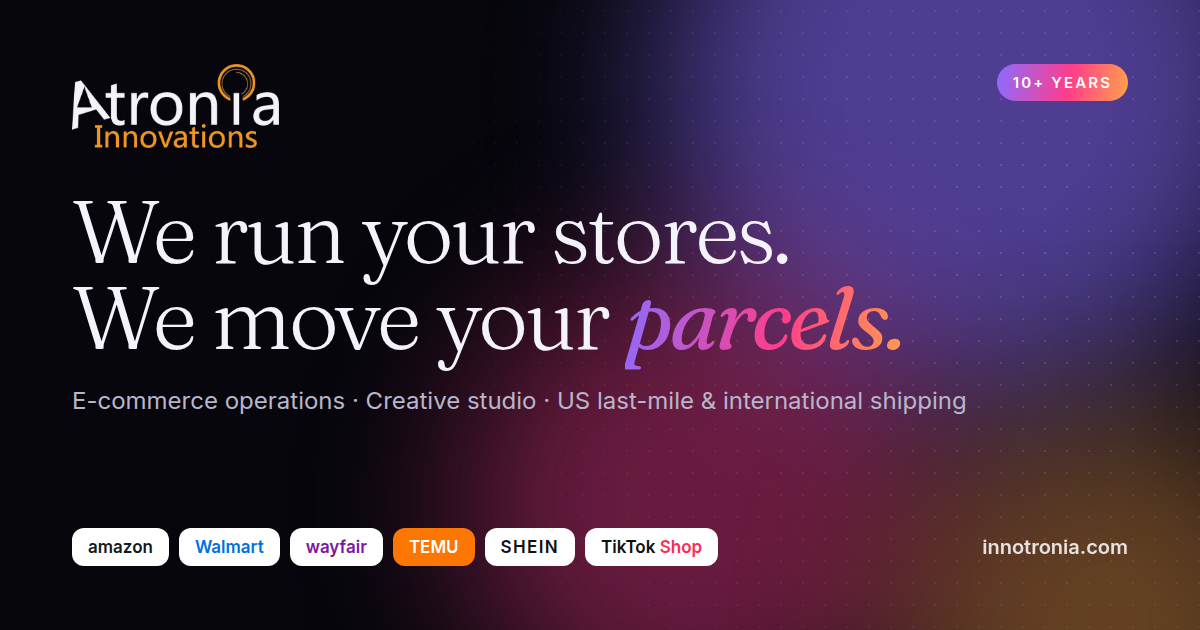
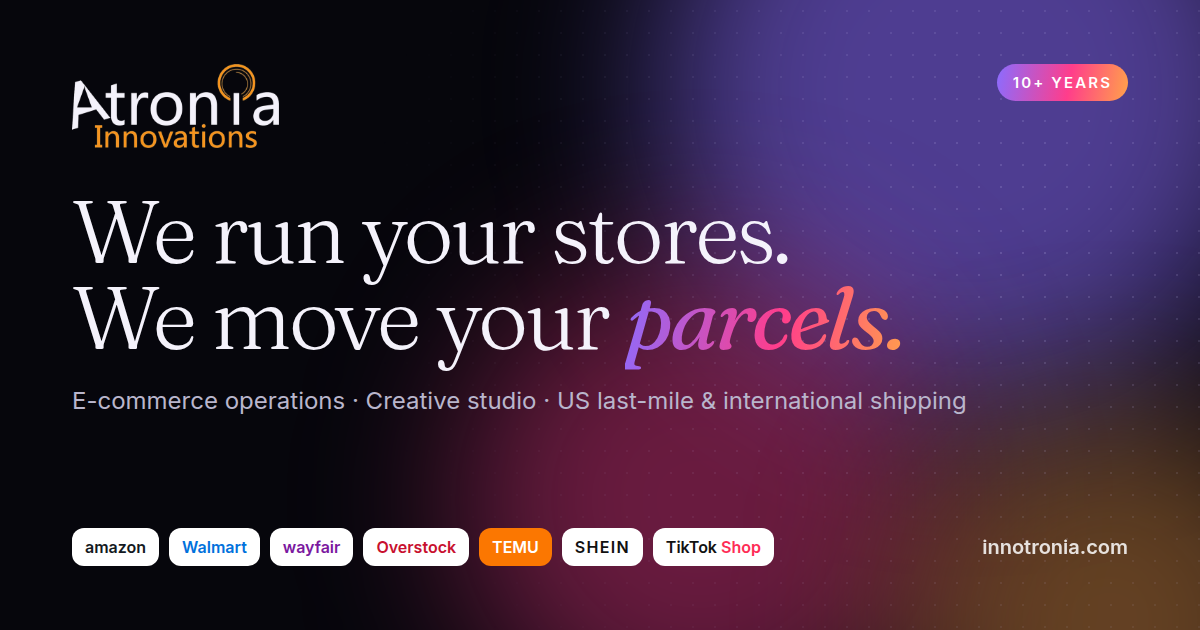
Rename site to Atronia Innovations and add Overstock
- All visible brand text, page titles, social tags, privacy policy, 404,
  auto-reply emails and structured data now use Atronia Innovations
  (legal name Atronia Innovations Inc.); domain unchanged
- Overstock added to the platform wall (4x2 grid), service tags, contact
  form platforms, descriptions and trademark notice; marketplaces count 7+
- Share image regenerated

Claude-Session: https://claude.ai/code/session_01MSoyoZq11KT8D2fmmKe6iS

Changed region(s): [[0.0617, 0.8143, 0.6475, 0.9048]]

diff --git a/index.html b/index.html
@@ -3,8 +3,8 @@
 <head>
   <meta charset="UTF-8" />
   <meta name="viewport" content="width=device-width, initial-scale=1.0" />
-  <title>Innotronia — E-commerce Growth &amp; Logistics</title>
-  <meta name="description" content="Innotronia is a full-service e-commerce agency and logistics partner. We run your Amazon, Walmart, Wayfair, Temu, Shein and TikTok Shop channels end-to-end, open new sales channels, create listing images, A+ content and video, and ship with US last-mile and international parcel services." />
+  <title>Atronia Innovations — E-commerce Growth &amp; Logistics</title>
+  <meta name="description" content="Atronia Innovations is a full-service e-commerce agency and logistics partner. We run your Amazon, Walmart, Wayfair, Overstock, Temu, SHEIN and TikTok Shop channels end-to-end, open new sales channels, create listing images, A+ content and video, and ship with US last-mile and international parcel services." />
   <meta name="theme-color" content="#06060c" />
   <link rel="canonical" href="https://innotronia.com/" />
   <link rel="alternate" hreflang="en" href="https://innotronia.com/" />
@@ -13,18 +13,18 @@
 
   <!-- Social sharing -->
   <meta property="og:type" content="website" />
-  <meta property="og:site_name" content="Innotronia" />
+  <meta property="og:site_name" content="Atronia Innovations" />
   <meta property="og:url" content="https://innotronia.com/" />
-  <meta property="og:title" content="Innotronia — E-commerce Growth & Logistics" />
-  <meta property="og:description" content="10+ years running Amazon, Walmart, Wayfair, Temu, SHEIN & TikTok Shop stores. Channel takeover, new-channel expansion, creative studio, US last-mile & international shipping." />
+  <meta property="og:title" content="Atronia Innovations — E-commerce Growth & Logistics" />
+  <meta property="og:description" content="10+ years running Amazon, Walmart, Wayfair, Overstock, Temu, SHEIN & TikTok Shop stores. Channel takeover, new-channel expansion, creative studio, US last-mile & international shipping." />
   <meta property="og:image" content="https://innotronia.com/assets/img/og-image.png" />
   <meta property="og:image:width" content="1200" />
   <meta property="og:image:height" content="630" />
-  <meta property="og:image:alt" content="Innotronia — We run your stores. We move your parcels." />
+  <meta property="og:image:alt" content="Atronia Innovations — We run your stores. We move your parcels." />
   <meta property="og:locale" content="en_US" />
   <meta property="og:locale:alternate" content="zh_CN" />
   <meta name="twitter:card" content="summary_large_image" />
-  <meta name="twitter:title" content="Innotronia — E-commerce Growth & Logistics" />
+  <meta name="twitter:title" content="Atronia Innovations — E-commerce Growth & Logistics" />
   <meta name="twitter:description" content="Channel takeover, new-channel expansion, creative studio, US last-mile & international shipping." />
   <meta name="twitter:image" content="https://innotronia.com/assets/img/og-image.png" />
 
@@ -37,8 +37,9 @@
     "@context": "https://schema.org",
     "@type": "ProfessionalService",
     "@id": "https://innotronia.com/#organization",
-    "name": "Innotronia",
-    "alternateName": "Atronia Innovations",
+    "name": "Atronia Innovations",
+    "legalName": "Atronia Innovations Inc.",
+    "alternateName": "Innotronia",
     "url": "https://innotronia.com/",
     "logo": "https://innotronia.com/assets/img/logo.png",
     "image": "https://innotronia.com/assets/img/og-image.png",
@@ -49,7 +50,7 @@
       "@type": "OfferCatalog",
       "name": "Services",
       "itemListElement": [
-        { "@type": "Offer", "itemOffered": { "@type": "Service", "name": "Channel Takeover", "description": "A–Z marketplace operations for Amazon, Walmart, Wayfair, Temu, SHEIN and TikTok Shop." }, "priceSpecification": { "@type": "UnitPriceSpecification", "price": 999, "priceCurrency": "USD", "unitText": "MONTH" } },
+        { "@type": "Offer", "itemOffered": { "@type": "Service", "name": "Channel Takeover", "description": "A–Z marketplace operations for Amazon, Walmart, Wayfair, Overstock, Temu, SHEIN and TikTok Shop." }, "priceSpecification": { "@type": "UnitPriceSpecification", "price": 999, "priceCurrency": "USD", "unitText": "MONTH" } },
         { "@type": "Offer", "itemOffered": { "@type": "Service", "name": "Channel Expansion", "description": "Open and grow new sales channels for 5% of net revenue." } },
         { "@type": "Offer", "itemOffered": { "@type": "Service", "name": "Creative Studio", "description": "Main images, A+ content, Brand Store design and AI-generated product videos." }, "priceSpecification": { "@type": "UnitPriceSpecification", "price": 699, "priceCurrency": "USD", "unitText": "MONTH" } },
         { "@type": "Offer", "itemOffered": { "@type": "Service", "name": "US Last-Mile Delivery" } },
@@ -79,7 +80,7 @@
   <!-- ============ NAV ============ -->
   <header class="nav" id="nav">
     <div class="container nav__inner">
-      <a href="#top" class="logo" aria-label="Innotronia home">
+      <a href="#top" class="logo" aria-label="Atronia Innovations home">
         <img class="logo__img" src="assets/img/logo-light.png" alt="Atronia Innovations" width="109" height="44" />
       </a>
 
@@ -154,14 +155,14 @@
       <div class="container hero__content">
         <p class="eyebrow reveal"><span class="dot"></span><span data-i18n="hero.eyebrow">E-commerce Agency · Logistics Partner</span></p>
         <h1 class="hero__title reveal" data-i18n-html="hero.title">We run your stores.<br/>We move your <em>parcels.</em></h1>
-        <p class="hero__lead reveal" data-i18n="hero.lead">Innotronia takes over marketplace operations from A to Z, opens new sales channels, and ships your orders across the US and around the world — so your brand can focus on building great products.</p>
+        <p class="hero__lead reveal" data-i18n="hero.lead">Atronia Innovations takes over marketplace operations from A to Z, opens new sales channels, and ships your orders across the US and around the world — so your brand can focus on building great products.</p>
         <div class="hero__ctas reveal">
           <a href="#pricing" class="btn btn--grad magnetic" data-i18n="hero.cta1">Explore plans</a>
           <a href="#contact" class="btn btn--ghost magnetic" data-tab-target="shipping" data-i18n="hero.cta2">Get a shipping quote</a>
         </div>
         <dl class="hero__stats reveal">
           <div><dt><span class="count" data-to="10">0</span>+</dt><dd data-i18n="hero.s0">Years of experience</dd></div>
-          <div><dt><span class="count" data-to="6">0</span>+</dt><dd data-i18n="hero.s1">Marketplaces operated</dd></div>
+          <div><dt><span class="count" data-to="7">0</span>+</dt><dd data-i18n="hero.s1">Marketplaces operated</dd></div>
           <div><dt>A–Z</dt><dd data-i18n="hero.s2">Full-service operations</dd></div>
           <div><dt><span class="count" data-to="7">0</span>+</dt><dd data-i18n="hero.s4">Brand partners</dd></div>
         </dl>
@@ -184,6 +185,10 @@
           <div class="plogo reveal" title="Wayfair">
             <svg class="plogo__icon" viewBox="0 0 48 48" aria-hidden="true"><path fill="#7b189f" stroke="#7b189f" stroke-linejoin="round" d="M39.59 38.252c.179-.57.379-1.291.596-2.133c.357-1.386.75-3.111 1.125-4.768a2 2 0 0 0-.538-1.855l-4.082-4.082L25.414 36.69l4.082 4.082a2 2 0 0 0 1.856.537c1.657-.375 3.381-.768 4.768-1.125a44 44 0 0 0 2.132-.596a2.03 2.03 0 0 0 1.338-1.338m-27.71 1.936c1.387.357 3.112.75 4.769 1.125a2 2 0 0 0 1.855-.537l4.082-4.082l-11.277-11.277l-4.082 4.082a2 2 0 0 0-.537 1.855c.375 1.657.768 3.381 1.125 4.768c.217.842.417 1.564.596 2.133a2.03 2.03 0 0 0 1.337 1.337c.57.18 1.291.38 2.133.596M36.119 7.814c-1.386-.357-3.111-.75-4.768-1.125a2 2 0 0 0-1.855.537l-4.082 4.082L36.69 22.585l4.082-4.082a2 2 0 0 0 .537-1.855c-.375-1.657-.768-3.381-1.125-4.768a44 44 0 0 0-.596-2.133A2.030 2.030 0 0 0 38.25 8.41a42 42 0 0 0-2.132-.596M7.814 11.88c-.357 1.387-.75 3.112-1.125 4.768a2 2 0 0 0 .538 1.856l4.082 4.082l11.277-11.277l-4.082-4.082a2 2 0 0 0-1.856-.537c-1.657.375-3.381.768-4.768 1.125c-.842.217-1.563.417-2.132.595A2.030 2.030 0 0 0 8.41 9.748c-.179.57-.38 1.291-.596 2.133"/></svg>
             <span class="plogo__word plogo__word--wayfair">wayfair</span>
+          </div>
+          <div class="plogo reveal" title="Overstock">
+            <svg class="plogo__icon" viewBox="0 0 32 32" aria-hidden="true"><rect width="32" height="32" rx="7.5" fill="#c8102e"/><circle cx="16" cy="16" r="8" fill="none" stroke="#fff" stroke-width="4.6"/></svg>
+            <span class="plogo__word plogo__word--overstock">Overstock</span>
           </div>
           <div class="plogo reveal" title="Temu">
             <span class="plogo__temu">TEMU</span>
@@ -217,7 +222,7 @@
             <span class="pillar__num">01</span>
             <h3 data-i18n="pillars.p1.t">E-commerce Operations</h3>
             <p data-i18n="pillars.p1.d">Channel takeover and full-service management across the leading US marketplaces, plus new-channel expansion on a performance basis.</p>
-            <ul class="pillar__tags"><li>Amazon</li><li>Walmart</li><li>Wayfair</li><li>Temu</li><li>Shein</li><li>TikTok Shop</li></ul>
+            <ul class="pillar__tags"><li>Amazon</li><li>Walmart</li><li>Wayfair</li><li>Overstock</li><li>Temu</li><li>SHEIN</li><li>TikTok Shop</li></ul>
             <span class="pillar__arrow" aria-hidden="true">→</span>
           </a>
           <a href="#creative" class="pillar pillar--pink tilt reveal">
@@ -585,7 +590,7 @@
     <section class="section why" id="why">
       <div class="container">
         <div class="section__head reveal">
-          <p class="eyebrow"><span class="dot"></span><span data-i18n="why.eyebrow">Why Innotronia</span></p>
+          <p class="eyebrow"><span class="dot"></span><span data-i18n="why.eyebrow">Why Atronia Innovations</span></p>
           <h2 class="section__title" data-i18n-html="why.title">Operators first. <em>Partners</em> always.</h2>
         </div>
 
@@ -823,6 +828,7 @@
                 <label><input type="checkbox" name="platforms" value="Amazon" /><span>Amazon</span></label>
                 <label><input type="checkbox" name="platforms" value="Walmart" /><span>Walmart</span></label>
                 <label><input type="checkbox" name="platforms" value="Wayfair" /><span>Wayfair</span></label>
+                <label><input type="checkbox" name="platforms" value="Overstock" /><span>Overstock</span></label>
                 <label><input type="checkbox" name="platforms" value="Temu" /><span>Temu</span></label>
                 <label><input type="checkbox" name="platforms" value="Shein" /><span>Shein</span></label>
                 <label><input type="checkbox" name="platforms" value="TikTok Shop" /><span>TikTok Shop</span></label>
@@ -893,10 +899,10 @@
       </div>
     </div>
     <div class="container footer__bottom">
-      <span>© <span id="year">2026</span> Innotronia. <span data-i18n="footer.rights">All rights reserved.</span></span>
+      <span>© <span id="year">2026</span> Atronia Innovations Inc. <span data-i18n="footer.rights">All rights reserved.</span></span>
       <span class="footer__links"><a href="privacy.html" data-i18n="footer.privacy">Privacy Policy</a><a href="#top" class="to-top" data-i18n="footer.top">Back to top ↑</a></span>
     </div>
-    <p class="container footer__legal" data-i18n="footer.legal">Amazon, Walmart, Wayfair, Temu, SHEIN, TikTok, UniUni, GOFO, SwiftX, USPS, FedEx, UPS, ePost and DHL are trademarks of their respective owners. Innotronia is an independent service provider and is not affiliated with or endorsed by these platforms.</p>
+    <p class="container footer__legal" data-i18n="footer.legal">Amazon, Walmart, Wayfair, Overstock, Temu, SHEIN, TikTok, UniUni, GOFO, SwiftX, USPS, FedEx, UPS, ePost and DHL are trademarks of their respective owners. Atronia Innovations is an independent service provider and is not affiliated with or endorsed by these platforms.</p>
   </footer>
 
   <script src="assets/js/i18n.js" defer></script>

diff --git a/privacy.html b/privacy.html
@@ -3,10 +3,10 @@
 <head>
   <meta charset="UTF-8" />
   <meta name="viewport" content="width=device-width, initial-scale=1.0" />
-  <title>Privacy Policy — Innotronia</title>
-  <meta name="title-en" content="Privacy Policy — Innotronia" />
-  <meta name="title-zh" content="隐私政策 — Innotronia" />
-  <meta name="description" content="How Innotronia collects, uses and protects the information you share through our website." />
+  <title>Privacy Policy — Atronia Innovations</title>
+  <meta name="title-en" content="Privacy Policy — Atronia Innovations" />
+  <meta name="title-zh" content="隐私政策 — Atronia Innovations" />
+  <meta name="description" content="How Atronia Innovations collects, uses and protects the information you share through our website." />
   <meta name="theme-color" content="#06060c" />
   <link rel="canonical" href="https://innotronia.com/privacy.html" />
   <link rel="icon" type="image/png" sizes="32x32" href="/assets/img/favicon-32.png" />
@@ -18,7 +18,7 @@
 <body>
   <header class="page-nav">
     <div class="container nav__inner">
-      <a href="/" data-home class="logo" aria-label="Innotronia home">
+      <a href="/" data-home class="logo" aria-label="Atronia Innovations home">
         <img class="logo__img" src="/assets/img/logo-light.png" alt="Atronia Innovations" width="99" height="40" />
       </a>
       <div class="nav__actions" style="display:flex">
@@ -33,7 +33,7 @@
     <h1>Privacy <em>Policy</em></h1>
     <p class="legal__date">Effective date: September 24, 2026</p>
 
-    <p class="legal__intro">Innotronia ("we", "us") respects your privacy. This policy explains what information we collect through innotronia.com, how we use it, and the choices you have.</p>
+    <p class="legal__intro">Atronia Innovations Inc. ("we", "us") respects your privacy. This policy explains what information we collect through innotronia.com, how we use it, and the choices you have.</p>
 
     <h2>1. Information we collect</h2>
     <p><strong>Information you give us.</strong> When you send a shipping quote request or an e-commerce consultation form, we collect the details you choose to provide, such as:</p>
@@ -90,7 +90,7 @@
     <h1>隐私<em>政策</em></h1>
     <p class="legal__date">生效日期：2026 年 9 月 24 日</p>
 
-    <p class="legal__intro">Innotronia（"我们"）尊重您的隐私。本政策说明我们通过 innotronia.com 收集哪些信息、如何使用，以及您拥有的选择权。</p>
+    <p class="legal__intro">Atronia Innovations Inc.（"我们"）尊重您的隐私。本政策说明我们通过 innotronia.com 收集哪些信息、如何使用，以及您拥有的选择权。</p>
 
     <h2>1. 我们收集的信息</h2>
     <p><strong>您主动提供的信息。</strong>当您提交运费报价或电商咨询表单时，我们会收集您选择填写的内容，例如：</p>
@@ -144,7 +144,7 @@
 
   <footer class="footer" style="padding-top:28px">
     <div class="container footer__bottom" style="margin-top:0;border-top:0;padding-top:0">
-      <span>© 2026 Innotronia.</span>
+      <span>© 2026 Atronia Innovations Inc.</span>
       <a href="/" data-home class="to-top"><span data-l="en">Back to site ↑</span><span data-l="zh" hidden>返回首页 ↑</span></a>
     </div>
   </footer>

diff --git a/assets/js/main.js b/assets/js/main.js
@@ -1,5 +1,5 @@
 /* =========================================================
-   Innotronia — interactions
+   Atronia Innovations — interactions
    ========================================================= */
 (() => {
   "use strict";
@@ -42,7 +42,7 @@
   if (urlLang === "zh" || urlLang === "en") { try { localStorage.setItem("inno-lang", urlLang); } catch (e) { /* ignore */ } }
   const META = {
     en: { title: document.title, desc: document.querySelector('meta[name="description"]').content },
-    zh: { title: "Innotronia — 电商代运营与物流服务", desc: "Innotronia 拥有 10 年以上电商运营经验，提供 Amazon、Walmart、Wayfair、Temu、SHEIN、TikTok Shop 渠道接管与全托管运营、新渠道开拓、创意设计（主图、A+、视频），以及美国尾程派送与国际包裹物流服务。" }
+    zh: { title: "Atronia Innovations — 电商代运营与物流服务", desc: "Atronia Innovations 拥有 10 年以上电商运营经验，提供 Amazon、Walmart、Wayfair、Overstock、Temu、SHEIN、TikTok Shop 渠道接管与全托管运营、新渠道开拓、创意设计（主图、A+、视频），以及美国尾程派送与国际包裹物流服务。" }
   };
   const t = (key) => (lang === "zh" && window.I18N.zh[key]) || EN[key] || key;
 
@@ -549,8 +549,8 @@
 
   // Confirmation email FormSubmit sends to the person who submitted the form.
   const AUTO_REPLY = {
-    en: "Thank you for contacting Innotronia! We've received your inquiry and our team will get back to you within one business day.\n\nThis is an automatic confirmation — no need to reply.\n\n— The Innotronia Team\nhttps://innotronia.com",
-    zh: "感谢您联系 Innotronia！我们已收到您的咨询，团队会在一个工作日内与您联系。\n\n这是一封自动确认邮件，无需回复。\n\n— Innotronia 团队\nhttps://innotronia.com"
+    en: "Thank you for contacting Atronia Innovations! We've received your inquiry and our team will get back to you within one business day.\n\nThis is an automatic confirmation — no need to reply.\n\n— The Atronia Innovations Team\nhttps://innotronia.com",
+    zh: "感谢您联系 Atronia Innovations！我们已收到您的咨询，团队会在一个工作日内与您联系。\n\n这是一封自动确认邮件，无需回复。\n\n— Atronia Innovations 团队\nhttps://innotronia.com"
   };
 
   async function send(form, payload, btn) {
@@ -580,7 +580,7 @@
   const fieldVal = (form, name) => (($(`[name="${name}"]`, form) || {}).value || "").trim() || "—";
 
   /* ---------- lead analysis ----------
-     Each inquiry is scored and summarised (in Chinese, for the Innotronia team) before it is sent,
+     Each inquiry is scored and summarised (in Chinese, for the Atronia Innovations team) before it is sent,
      so the email opens with: priority, one-line summary, estimated value, missing info, next step. */
   const has = (v) => v && v !== "—";
   const TIER_NEXT = {

diff --git a/assets/js/i18n.js b/assets/js/i18n.js
@@ -1,4 +1,4 @@
-/* Innotronia — translations.
+/* Atronia Innovations — translations.
    English is the source text in index.html. Only Chinese overrides live here.
    Add a key with data-i18n="key" (text) or data-i18n-html="key" (allows <em>, <br>, <strong>). */
 
@@ -135,11 +135,11 @@ window.I18N = {
     "f.creative": "+ 创意设计（图片、A+ 与视频）",
     "f.goal": "您的主要目标",
 
-    "footer.legal": "Amazon、Walmart、Wayfair、Temu、SHEIN、TikTok、UniUni、GOFO、SwiftX、USPS、FedEx、UPS、ePost 及 DHL 均为其各自所有者的商标。Innotronia 为独立服务商，与上述平台无隶属或背书关系。",
+    "footer.legal": "Amazon、Walmart、Wayfair、Overstock、Temu、SHEIN、TikTok、UniUni、GOFO、SwiftX、USPS、FedEx、UPS、ePost 及 DHL 均为其各自所有者的商标。Atronia Innovations 为独立服务商，与上述平台无隶属或背书关系。",
 
     "hero.eyebrow": "电商代运营 · 物流合作伙伴",
     "hero.title": "<span class=\"nw\">店铺交给我们运营，</span><br/><span class=\"nw\">包裹交给我们<em>派送。</em></span>",
-    "hero.lead": "Innotronia 为品牌提供从 A 到 Z 的平台全托管运营、新渠道开拓，以及美国尾程与国际包裹物流服务，让您专注于打造好产品。",
+    "hero.lead": "Atronia Innovations 为品牌提供从 A 到 Z 的平台全托管运营、新渠道开拓，以及美国尾程与国际包裹物流服务，让您专注于打造好产品。",
     "hero.cta1": "查看合作方案",
     "hero.cta2": "获取运费报价",
     "hero.s0": "年行业经验",
@@ -247,14 +247,14 @@ window.I18N = {
     "log.ctaText": "只需约 60 秒 —— 3 个简单问题。",
     "log.cta": "开始运费问卷",
 
-    "why.eyebrow": "为什么选择 Innotronia",
+    "why.eyebrow": "为什么选择 Atronia Innovations",
     "why.title": "运营为本，<em>长期</em>合作。",
     "why.i1.t": "销售与物流一站整合",
     "why.i1.d": "运营团队与物流伙伴每天直接沟通 —— 减少交接，问题解决更快。",
     "why.i2.t": "清晰可预期的价格",
     "why.i2.d": "固定月费或纯业绩提成，没有隐藏费用。",
     "why.i3.t": "深耕各大主流平台",
-    "why.i3.d": "Amazon、Walmart、Wayfair、Temu、Shein、TikTok Shop 等 —— 每个平台都有专属运营打法。",
+    "why.i3.d": "Amazon、Walmart、Wayfair、Overstock、Temu、SHEIN、TikTok Shop 等 —— 每个平台都有专属运营打法。",
     "why.i4.t": "中英双语团队",
     "why.i4.d": "我们以中英文无缝沟通，连接品牌、工厂与美国电商平台。",
 

diff --git a/assets/css/style.css b/assets/css/style.css
@@ -207,7 +207,7 @@ html[lang="zh"] .hero__title { font-family: var(--sans); font-weight: 700; lette
 .platforms { position: relative; z-index: 1; padding: 20px 0 clamp(70px, 8vw, 100px); }
 .platforms__label { text-align: center; margin: 0 0 28px; font-size: 12px; letter-spacing: .22em; text-transform: uppercase; color: var(--muted); font-weight: 600; }
 html[lang="zh"] .platforms__label { letter-spacing: .12em; }
-.logo-wall { display: grid; grid-template-columns: repeat(7, 1fr); gap: 14px; }
+.logo-wall { display: grid; grid-template-columns: repeat(4, 1fr); gap: 14px; }
 @media (max-width: 1100px) { .logo-wall { grid-template-columns: repeat(4, 1fr); } }
 @media (max-width: 600px) { .logo-wall { grid-template-columns: repeat(2, 1fr); gap: 10px; } }
 .plogo {
@@ -225,6 +225,7 @@ html[lang="zh"] .platforms__label { letter-spacing: .12em; }
 .plogo__word--amazon { font-size: 28px; color: #131921; letter-spacing: -.05em; }
 .plogo__word--wayfair { font-size: 25px; color: #7b189f; font-weight: 700; }
 .plogo__word--shein { font-size: 28px; color: #111; letter-spacing: .08em; font-weight: 800; }
+.plogo__word--overstock { font-size: 25px; color: #c8102e; letter-spacing: -.03em; }
 .plogo__word--tiktok { font-size: 21px; color: #111; letter-spacing: -.02em; }
 .plogo__word--tiktok small { font-weight: 600; color: #fe2c55; font-size: .85em; }
 .plogo__tiktok svg { width: 26px; height: 26px; overflow: visible; }
@@ -234,7 +235,7 @@ html[lang="zh"] .platforms__label { letter-spacing: .12em; }
 .plogo--more strong { font-size: 14px; font-weight: 600; }
 .plogo--more small { font-size: 12px; color: var(--accent); }
 .plogo__plus { width: 34px; height: 34px; flex: none; border-radius: 50%; display: grid; place-items: center; background: var(--grad); color: #fff; font-size: 20px; font-weight: 500; }
-@media (max-width: 600px) { .plogo--more { grid-column: 1 / -1; justify-content: center; } }
+
 @media (max-width: 600px) { .plogo { height: 84px; } .plogo__word--amazon, .plogo__word--shein { font-size: 24px; } .plogo__walmart { width: 110px; } }
 
 /* ---------- client brands marquee ---------- */

diff --git a/404.html b/404.html
@@ -3,9 +3,9 @@
 <head>
   <meta charset="UTF-8" />
   <meta name="viewport" content="width=device-width, initial-scale=1.0" />
-  <title>Page not found — Innotronia</title>
-  <meta name="title-en" content="Page not found — Innotronia" />
-  <meta name="title-zh" content="页面不存在 — Innotronia" />
+  <title>Page not found — Atronia Innovations</title>
+  <meta name="title-en" content="Page not found — Atronia Innovations" />
+  <meta name="title-zh" content="页面不存在 — Atronia Innovations" />
   <meta name="robots" content="noindex" />
   <meta name="theme-color" content="#06060c" />
   <link rel="icon" type="image/png" sizes="32x32" href="/assets/img/favicon-32.png" />
@@ -17,7 +17,7 @@
 <body>
   <main class="nf">
     <div class="aurora" aria-hidden="true"><span class="aurora__b aurora__b--1"></span><span class="aurora__b aurora__b--2"></span><span class="aurora__b aurora__b--3"></span></div>
-    <a href="/" data-home class="logo" aria-label="Innotronia home">
+    <a href="/" data-home class="logo" aria-label="Atronia Innovations home">
       <img class="logo__img" src="/assets/img/logo-light.png" alt="Atronia Innovations" width="99" height="40" />
     </a>
     <button class="lang-toggle" type="button" aria-label="Switch language"><span data-lang="en">EN</span><span class="lang-toggle__sep">/</span><span data-lang="zh">中文</span></button>

diff --git a/README.md b/README.md
@@ -1,6 +1,6 @@
-# Innotronia Website
+# Atronia Innovations Website
 
-Static, bilingual (EN / 中文) marketing site for Innotronia: e-commerce agency services and logistics (US last-mile and international parcels).
+Static, bilingual (EN / 中文) marketing site for Atronia Innovations: e-commerce agency services and logistics (US last-mile and international parcels).
 
 No build step. Open `index.html` or deploy the folder to any static host (GitHub Pages, Netlify, Vercel, Cloudflare Pages).
 
